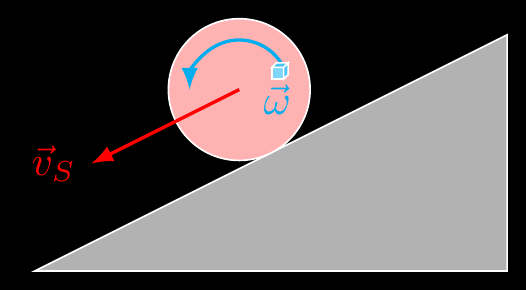
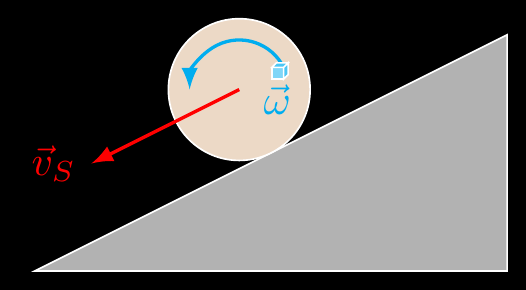
improve colors

Changed region(s): [[0.3042, 0.0621, 0.6084, 0.5586]]

diff --git a/mechanics/body-inclined-plane/body-inclined-plane.tex b/mechanics/body-inclined-plane/body-inclined-plane.tex
@@ -14,7 +14,7 @@
   \draw[fill=gray] (0,0) -- (2,0) -- (2,{2*tan(\al)}) -- cycle;
   % rotating body
   \coordinate (body) at ($(1,{tan(\al)})+(90+\al:\radius)$);
-  \draw[fill=red!30] (body) circle (\radius);
+  \draw[fill=brown!30] (body) circle (\radius);
   % arrows
   \draw[->,red,thick] (body) -- ++(180+\al:0.7) node[left] {$\vec{v}_S$};
   \coordinate (cube) at ($(body)+(\al:0.7*\radius)$);

diff --git a/mechanics/body-inclined-plane/body-inclined-plane_inverted.tex b/mechanics/body-inclined-plane/body-inclined-plane_inverted.tex
@@ -23,7 +23,7 @@
   \draw[fill=gray] (0,0) -- (2,0) -- (2,{2*tan(\al)}) -- cycle;
   % rotating body
   \coordinate (body) at ($(1,{tan(\al)})+(90+\al:\radius)$);
-  \draw[fill=red!30] (body) circle (\radius);
+  \draw[fill=brown!30] (body) circle (\radius);
   % arrows
   \draw[->,red,thick] (body) -- ++(180+\al:0.7) node[left] {$\vec{v}_S$};
   \coordinate (cube) at ($(body)+(\al:0.7*\radius)$);

diff --git a/mechanics.md b/mechanics.md
@@ -126,7 +126,7 @@
   \draw[fill=gray] (0,0) -- (2,0) -- (2,{2*tan(\al)}) -- cycle;
   % rotating body
   \coordinate (body) at ($(1,{tan(\al)})+(90+\al:\radius)$);
-  \draw[fill=red!30] (body) circle (\radius);
+  \draw[fill=brown!30] (body) circle (\radius);
   % arrows
   \draw[->,red,thick] (body) -- ++(180+\al:0.7) node[left] {$\vec{v}_S$};
   \coordinate (cube) at ($(body)+(\al:0.7*\radius)$);
@@ -2039,7 +2039,7 @@
   \draw[fill=gray] (0,0) -- (2,0) -- (2,{2*tan(\al)}) -- cycle;
   % rotating body
   \coordinate (body) at ($(1,{tan(\al)})+(90+\al:\radius)$);
-  \draw[fill=red!30] (body) circle (\radius);
+  \draw[fill=brown!30] (body) circle (\radius);
   % arrows
   \draw[->,red,thick] (body) -- ++(180+\al:0.7) node[left] {$\vec{v}_S$};
   \coordinate (cube) at ($(body)+(\al:0.7*\radius)$);
